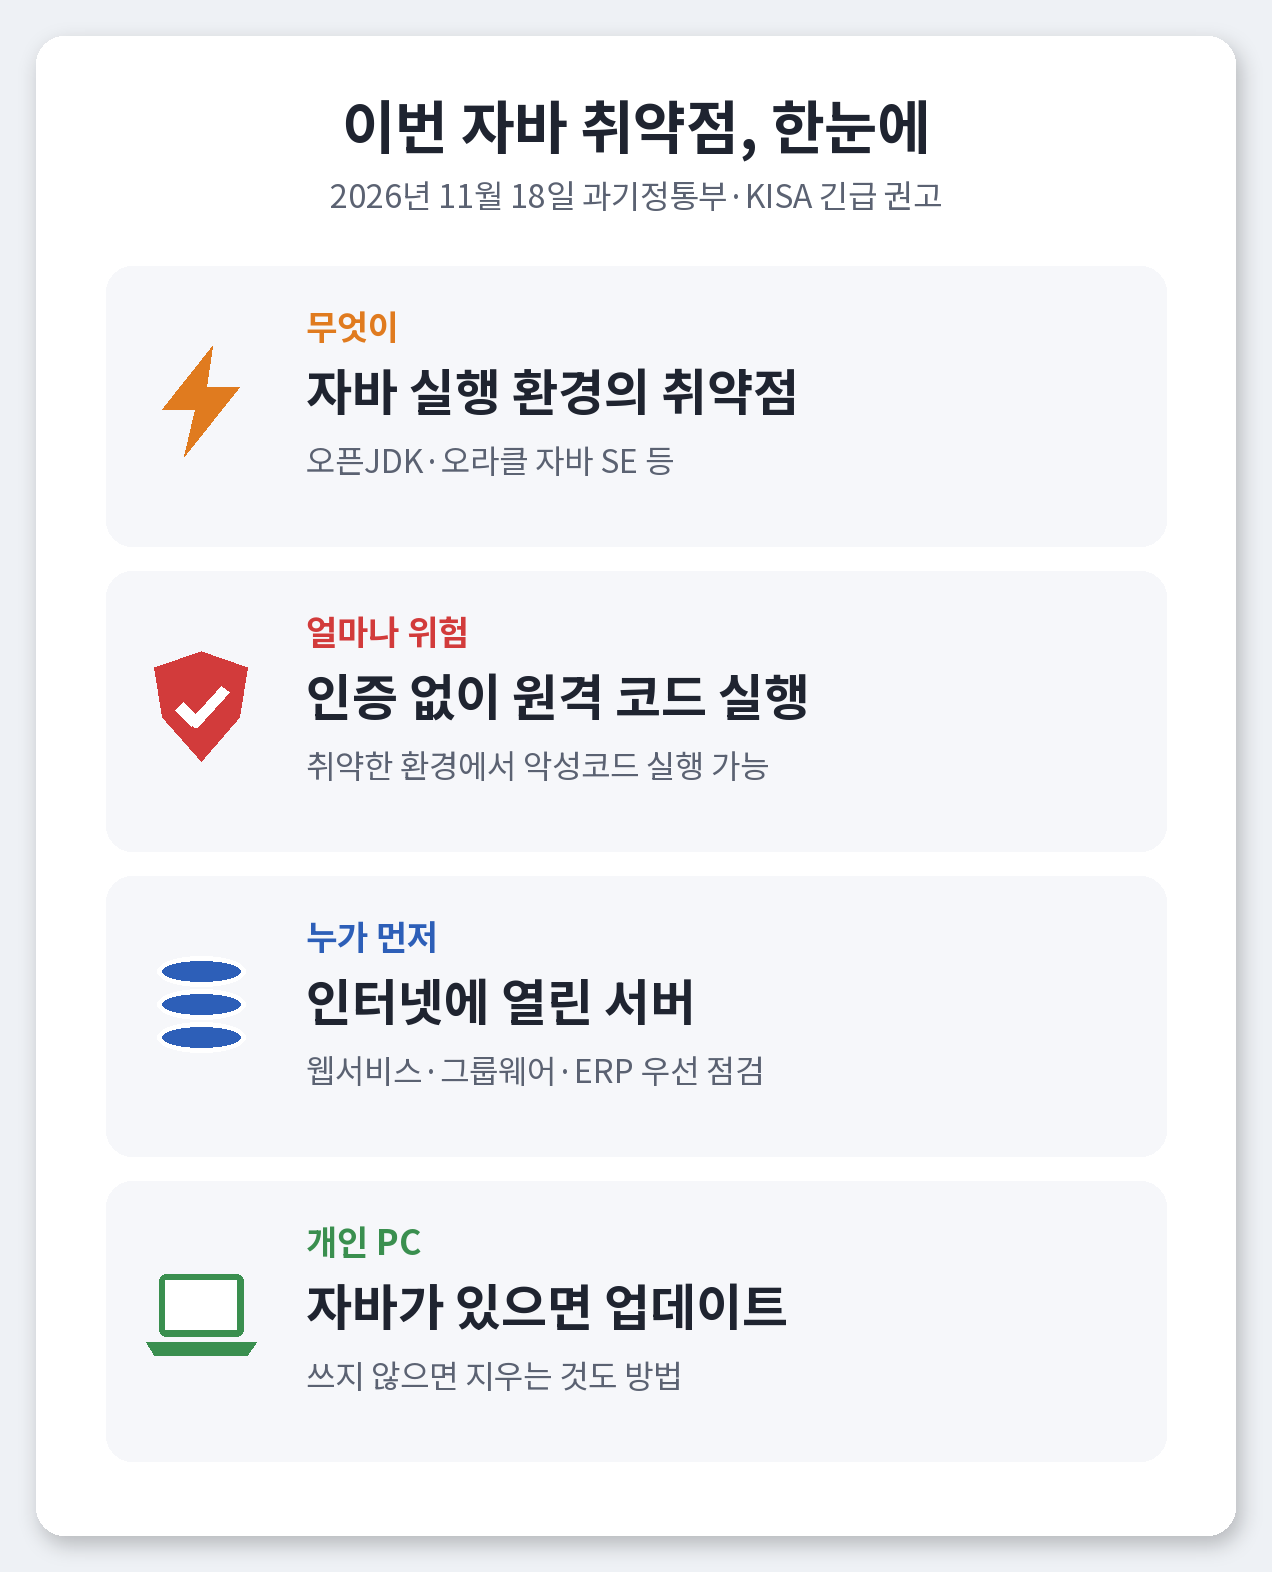
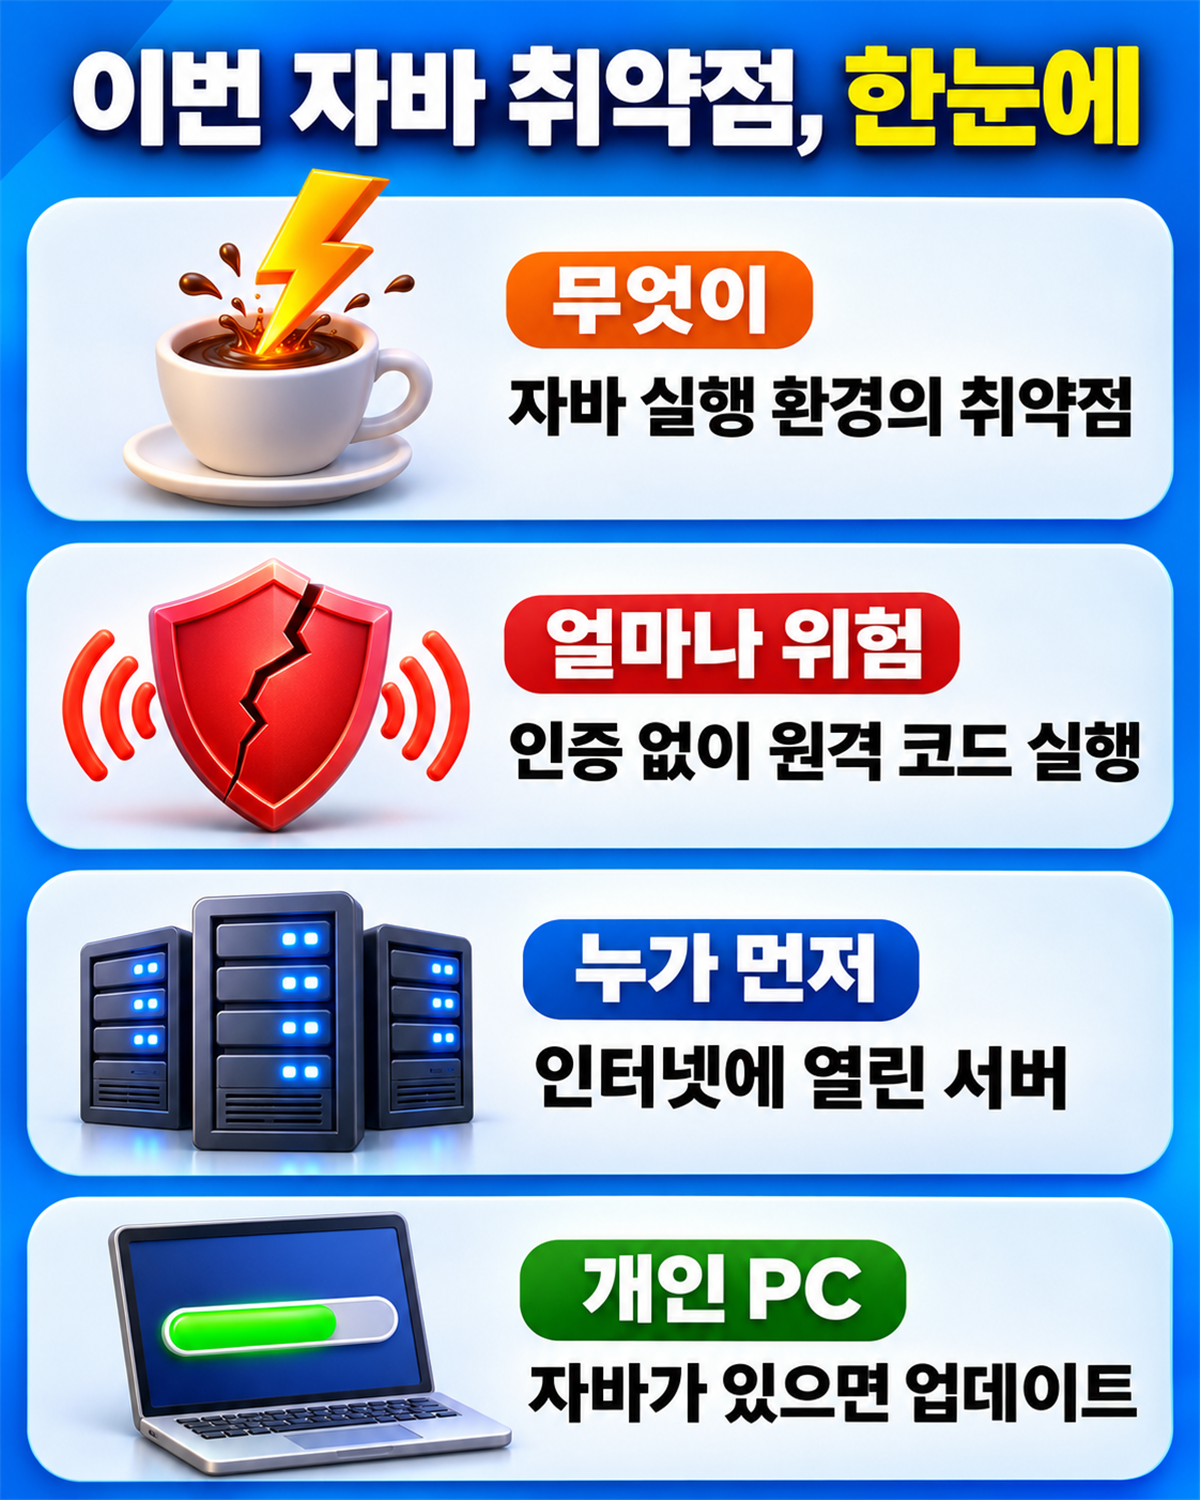
자바 취약점 글: 외부 검수 반영, ChatGPT 이미지 5장 적용(타이틀 85% 축소·사무실 사진 로고 모양 가림), 이미지 8장 완료

diff --git a/문서/네이버-코딩가이드/20261118_자바-취약점-점검/index.html b/문서/네이버-코딩가이드/20261118_자바-취약점-점검/index.html
@@ -4,21 +4,21 @@
 제목: 자바 취약점 '자바포셸' 긴급 점검, 내 컴퓨터도 업데이트해야 할까?
 카테고리: 컴퓨터·IT
 태그: #자바취약점 #자바포셸 #Java4Shell #오픈JDK #자바업데이트 #보안업데이트 #KISA #보호나라 #오라클 #보안공지
-글자 수: 본문 공백 포함 4,427자 / 공백 제외 3,456자 (빨간 글씨 이미지 표시·줄바꿈 제외)
+글자 수: 본문 공백 포함 4,737자 / 공백 제외 3,707자 (빨간 글씨 이미지 표시·줄바꿈 제외, 2026.11.18 검수 반영 후)
 검색어 목표: "자바 취약점" — 제목 맨 앞, 첫 소제목 앞 문단, 마지막 소제목에 넣었다.
 발행 방법: 이 파일을 브라우저로 연 다음 본문을 드래그해 복사 → 네이버 편집기에 붙여넣는다.
           본문의 빨간 글씨 [[ 이미지: 제목 (파일명) ]] 자리에 해당 파일을 올리고, 빨간 글씨는 지운다.
 추천 발행 시기: 2026년 11월 18~19일(정부 긴급 권고 당일·다음 날).
 
 이미지(글 순서와 같음):
-  01-타이틀.png                 ChatGPT 요청 (3D, 1:1, 테두리 없음·가장자리 15% 여백·글자 정가운데) — 이미지요청.md
-  02-한눈에-보기.png            AI 제작 요약 카드 (세로 4:5, 카드, 번개·방패·DB·노트북 아이콘)
-  03-업무-시스템-실사.png       ChatGPT 요청 (실사풍 사무실, 16:9) — 이미지요청.md
+  01-타이틀.png                 ChatGPT 제작 (3D 노트북·주황 경고 방패·커피잔, 1:1, 테두리 없음). 받은 원본은 아랫줄 '내 PC도 업데이트?' 양 끝이 15% 여백 안으로 들어가 85%로 줄이고 바깥을 귀퉁이 색 그라데이션으로 채움(원본: scratchpad/backup/java-01-chatgpt-original.png)
+  02-한눈에-보기.png            ChatGPT 제작 (3D 인포그래픽 네 칸: 번개 커피잔·금 간 방패·서버·노트북, 세로 4:5) — 사용자 요청(2026.11.18)으로 AI 카드에서 바꿈
+  03-업무-시스템-실사.png       ChatGPT 제작 (실사풍 사무실 뒷모습, 16:9). 모니터 테두리의 흐린 로고 모양 두 곳을 옆 색으로 덮음(원본 백업)
   04-공공-시스템-자바-비율.png  AI 제작 막대 차트 (2:1, 왼쪽 주황 띠)
-  05-위험도-점수.png            AI 제작 게이지 두 개 (3:2, 경고 꺾쇠)
+  05-위험도-점수.png            ChatGPT 제작 (3D 계기판 두 개 9.2점·8.1점, 3:2) — 사용자 요청(2026.11.18)으로 AI 게이지에서 바꿈
   06-내-PC-자바-확인.png        AI 제작 3단계 도식 (파노라마 약 3:1, 얇은 선). 2·3단계 터미널 화면 글자는 글쓴이 PC에서 실제 실행한 결과
   07-보안-수정-버전.png         AI 제작 표 (세로 약 4:5, 겹선+문서 아이콘)
-  08-서버-점검-실사.png         ChatGPT 요청 (실사풍 서버실, 4:5) — 이미지요청.md
+  08-서버-점검-실사.png         ChatGPT 제작 (실사풍 서버실·노트북 진행 막대, 4:5, 로고·얼굴 없음)
 
 [이미지 저작권] 무료 이미지(CC0)를 먼저 생각했으나, 쓸 만한 CC0 서버 랙 사진(NERSC)은 같은 날 엔비디아 글 두 편에 이미 써서 반복을 피하려고 이번에는 ChatGPT에 요청했다.
 
@@ -39,6 +39,7 @@
   · https://v.daum.net/v/20261118084224993 — 과기정통부·KISA 18일 권고, 자바는 다른 소프트웨어·장비에 포함돼 쓰이기도 해 프로그램별 버전 확인 필요, 공개 전 정보를 확보해 민·관·군 긴급대책회의
   · https://news.nate.com/view/20261118n05359 — 인증 없이 원격 악성코드 실행, 웹서비스·그룹웨어·ERP 영향
 - 칼리프가 밝힌 9.2점(CVSS 4.0)과 오라클의 8.1점(CVSS 3.1)은 계산 기준이 달라 둘 다 기준을 붙여 썼다. 실제 공격 사례 여부는 공식 공지에 없어 쓰지 않았다. 공격 방법은 쓰지 않았다.
+- [검수 반영 2026.11.18] 모두 타당: 개인 PC '공격 경로가 적은 편' 단정 삭제 → 우선 점검 대상은 외부 입력을 처리하는 서버·서비스, 개인 PC도 설치·내장 자바 확인. 수정 버전 표는 '이 버전 이상' 요약 대신 공식 보안 공지에서 CVE-2026-114938 수정 여부 확인을 앞세우고 '오라클 자바 SE 기준·대략적 기준'을 밝힘(오라클 공지의 영향 버전 8u511·11.0.33.0.3 등 언급). 자바 71%와 PHP 6.6%는 '언어별 사용 비율 단순 비교·위험도 비교 아님'으로 한정, PHP 사건은 '별개의 취약점'으로. 이미지 07 문구도 고침.
 - PHP 취약점: KISA 공지 「PHP 보안취약점(PHP2Shell) 관련 기업 보안 대응 수칙」(2026.10.22) 제목 확인.
 - 글쓴이 PC 확인(2026.11.18 실제 실행, 작업 기록): 명령 프롬프트 `java -version` → "'java'은(는) 내부 또는 외부 명령 … 아닙니다." /
   안드로이드 스튜디오 폴더의 jbr\bin\java.exe -version → openjdk version "25.0.4" 2026-07-21 (JetBrains 배포판). 본문의 '제 컴퓨터' 문단은 이 실행 결과만으로 썼다.
@@ -78,7 +79,7 @@
 
 <p style="color:#e60000;font-weight:bold;">[[ 이미지: 사무실에서 업무 시스템을 쓰는 모습 (03-업무-시스템-실사.png) ]]</p>
 
-<p>얼마나 많이 쓰일까요? 행정안전부 통계를 보면 2025년 말 기준 국내 공공 정보시스템 1만 5,618개 가운데 1만 1,132개, 약 71%가 자바로 개발됐습니다. 중앙행정기관만 보면 89%가 넘습니다. 지난달 비슷한 원격 실행 취약점이 알려진 PHP를 쓰는 공공 시스템이 약 6.6%인 것과 비교하면 열 배가 넘는 규모입니다.</p>
+<p>얼마나 많이 쓰일까요? 행정안전부 통계를 보면 2025년 말 기준 국내 공공 정보시스템 1만 5,618개 가운데 1만 1,132개, 약 71%가 자바로 개발됐습니다. 중앙행정기관만 보면 89%가 넘습니다. 언어별 사용 비율만 단순 비교하면, PHP로 개발된 공공 시스템(약 6.6%)의 열 배가 넘습니다. 이 숫자는 얼마나 많이 쓰이는지를 보여 줄 뿐, 취약점의 위험도나 실제 피해 규모를 비교한 것은 아닙니다.</p>
 
 <p style="color:#e60000;font-weight:bold;">[[ 이미지: 공공 정보시스템의 자바 사용 비율 (04-공공-시스템-자바-비율.png) ]]</p>
 
@@ -113,7 +114,7 @@
 
 <p>오라클 공지를 보면, 자바포셸은 웹 서비스처럼 바깥에서 데이터를 받아 자바로 처리하는 프로그램을 통해 악용될 수 있는 유형으로 설명돼 있습니다. 그래서 정부도 인터넷에 열려 있는 서비스와 그룹웨어, ERP 같은 핵심 업무 시스템부터 점검하라고 했습니다.</p>
 
-<p>개인 컴퓨터는 이런 서버보다 공격받을 경로가 적은 편입니다. 그렇다고 그냥 두기보다는, 내 컴퓨터에 자바가 있는지 한 번 확인하고 있으면 최신 버전으로 올려 두는 것이 기본입니다. 같은 업데이트에는 자바포셸 말고도 다른 취약점 수정이 함께 들어 있기 때문입니다.</p>
+<p>정리하면, 이번 취약점의 우선 점검 대상은 바깥에서 들어오는 데이터를 처리하는 서버와 서비스입니다. 다만 개인 컴퓨터는 상관없다는 뜻은 아닙니다. 개인 PC도 따로 설치한 자바와 프로그램 안에 들어 있는 자바를 확인해, 있으면 최신 버전으로 올려 두는 것이 기본입니다. 같은 업데이트에는 자바포셸 말고도 다른 취약점 수정이 함께 들어 있습니다.</p>
 
 <p>&nbsp;</p>
 <h3 style="font-size:19px;margin:24px 0 10px;">자바가 있는지 확인하는 방법</h3>
@@ -140,7 +141,9 @@
 <li><b>쓰지 않는 자바라면</b>: 설정의 '설치된 앱'에서 지우는 것도 방법입니다. 자바가 필요한 프로그램이 있는지 먼저 확인합니다.</li>
 </ul>
 
-<p>오라클 자바 기준으로 이번 보안 수정이 들어간 버전은 아래와 같습니다. 쓰고 있는 버전의 앞자리(8, 11, 17, 21, 25, 27)를 찾아 그 줄의 버전 이상인지 보면 됩니다.</p>
+<p>가장 정확한 방법은 내가 쓰는 자바를 내놓은 곳(오라클, 각 오픈JDK 배포판, 자바가 들어 있는 프로그램의 제조사)의 공식 보안 공지에서 이번 취약점(CVE-2026-114938)이 고쳐진 버전을 확인하는 것입니다.</p>
+
+<p>참고로 <b>오라클 자바 SE 기준</b> KISA 공지에 실린 수정 버전은 아래와 같습니다. 오라클 공지는 영향을 받는 버전을 8u511, 11.0.33.0.3, 17.0.21.0.3처럼 특정하고 있고, 버전 번호를 붙이는 방식이 줄기마다 다르며, 취약점마다 해당되는 줄기도 조금씩 다릅니다. 그래서 이 표는 대략적인 기준으로만 보고, 정확한 판단은 공식 공지로 하는 것이 좋습니다.</p>
 
 <p style="color:#e60000;font-weight:bold;">[[ 이미지: 오라클 자바 보안 수정 버전 (07-보안-수정-버전.png) ]]</p>
 
@@ -163,7 +166,7 @@
 
 <p style="color:#e60000;font-weight:bold;">[[ 이미지: 서버실에서 시스템을 점검하는 모습 (08-서버-점검-실사.png) ]]</p>
 
-<p>과기정통부와 KISA는 통신·인터넷서비스 사업자, 보안관제·백신, 호스팅, 방산, 조선 업계와 주요정보통신기반시설, 정보보호 관리체계(ISMS) 인증 기업 등에도 대응 방법을 따로 안내했습니다. 지난 10월에는 PHP에서 비슷한 원격 실행 취약점이 알려져 KISA가 기업 보안 대응 수칙을 낸 바 있어, 한 달 사이에 널리 쓰이는 언어 두 곳에서 큰 보안 문제가 이어진 셈입니다.</p>
+<p>과기정통부와 KISA는 통신·인터넷서비스 사업자, 보안관제·백신, 호스팅, 방산, 조선 업계와 주요정보통신기반시설, 정보보호 관리체계(ISMS) 인증 기업 등에도 대응 방법을 따로 안내했습니다. 참고로 지난 10월에는 PHP에서 원격 실행 취약점이 알려져 KISA가 기업 보안 대응 수칙을 냈습니다. 두 사건은 원인과 영향 범위가 서로 다른 별개의 취약점입니다.</p>
 
 <p>&nbsp;</p>
 <hr style="border:none;border-top:1px solid #cfcfcf;margin:8px 0;">

diff --git a/AGENTS.md b/AGENTS.md
@@ -54,6 +54,7 @@
 
 ## 사용자 지시 (유지)
 - **ChatGPT가 작성한 글을 검수해 달라는 요청을 받으면 원문 파일이나 본문을 직접 수정하지 않는다.** 검수 결과만 사용자에게 보고하고, 수정이 필요하면 위치·문제·권장 수정 방향을 알려 준다. 사용자가 별도로 수정해 달라고 요청한 경우에만 직접 수정한다. (사용자 요청, 2026-11-16)
+- **글을 검수할 때 이미지의 내용은 확인해도 되지만, 아직 파일이 없다는 이유만으로 지적하지 않는다.** 이미지 제작이 진행 중일 수 있으므로 파일 존재 여부는 검수 항목에서 제외한다. (사용자 요청, 2026-11-18)
 - 글 분량은 적당하게. 이미지는 다양하게(만화, 실사, 표, 차트, 도식) 사용한다.
 - **글마다 구성·제목 틀·도입·어투·문장 형식을 바꿔서 AI가 쓴 느낌을 줄인다**(2026-11-16). 자세한 기준은 `글작성지침.md`의 "글마다 쓰는 방식을 바꾸기". 쓰기 전에 같은 블로그의 최근 글 2~3편과 겹치는 패턴을 확인한다. 최근 네이버 글들은 "~가 뭐길래/왜 ~일까" 제목, "요즘 ~" 도입, 번호 소제목, 정리 목록 + 체크리스트 이미지로 끝나는 틀이 반복됐다.
 - **가능하면 실사 사진(ChatGPT 실사풍)을 많이 쓴다**(2026-11-16). 같은 종류 이미지가 연달아 나오지 않게 실사와 표·도식을 번갈아 배치한다(`공통지침-블로그.md`: 같은 형식 반복은 지루하다).
@@ -165,6 +166,9 @@
   - 근거: KISA 보호나라 보안공지 「Oracle 제품 보안 업데이트 권고」(11/18, 영향·해결 버전 표, OpenJDK 배포판은 배포판별 수정 버전), 오라클 「Critical Security Patch Update Advisory - November 2026」 원문(Java SE 11건, 전체 655건, CVE-2026-114938 CVSS 3.1 8.1·공격 복잡도 높음, Note 1: 웹 서비스처럼 API에 데이터를 넣는 방식으로 악용 → 서버 우선), 11/18 기사 원문(칼리프 'Java4Shell' CVSS 4.0 9.2, Base64 디코더 메모리 손상, 행안부 통계 공공 정보시스템 71.28%·중앙행정기관 89.05%·PHP 6.58%, 민·관·군 긴급대책회의, 우선 점검·재시작·반영 확인).
   - 도입은 이 PC에서 실제 실행한 결과로 시작했다: 명령 프롬프트 `java -version` → 'java' 명령 없음, 안드로이드 스튜디오 jbr\bin\java.exe -version → openjdk 25.0.4(JetBrains). '명령에선 없다고 나와도 프로그램 안에 자바가 있을 수 있다'를 글의 뼈대로 썼다. 공격 방법은 쓰지 않았고, 두 위험도 점수는 기준(CVSS 4.0/3.1)을 붙여 나란히 썼다.
   - 이미지 8장: AI 02 한눈에(4:5, 카드)·04 공공 시스템 자바 비율(2:1, 왼쪽 띠)·05 위험도 점수 게이지(3:2, 꺾쇠)·06 내 PC 확인 3단계(약 3:1, 얇은 선, 실제 실행 결과 터미널)·07 보안 수정 버전 표(세로, 겹선)는 `images/`에 있다. ChatGPT 요청: 01 타이틀(1:1, 테두리 없음·15% 여백·글자 정가운데, Java 로고 금지)·03 사무실 업무 시스템 실사(16:9)·08 서버실 점검 실사(4:5). CC0 서버 랙 사진은 같은 날 엔비디아 글에 이미 써서 반복을 피했다.
+  - ChatGPT 이미지 3장(01 노트북·주황 경고 방패·커피잔 타이틀 1:1 테두리 없음, 03 사무실 뒷모습 16:9, 08 서버실 노트북 4:5)을 확인해 `images/`로 옮겼다(글자 정확, 얼굴 없음, 타이틀은 150px로 줄여도 읽힘). 01은 아랫줄 양 끝이 15% 여백 안으로 들어가 85%로 줄여 맞췄고, 03은 모니터 테두리의 흐린 로고 모양 두 곳을 옆 색으로 덮었다(원본은 임시 폴더 백업). **실사 이미지는 모니터·노트북 테두리의 작은 로고 모양까지 확대해 확인한다.** 이미지 8장 완료, 대기 중인 요청 없음. 남은 일은 사용자의 네이버 발행뿐이다.
+  - 2026-11-18 사용자 요청으로 02 한눈에 보기·05 위험도 점수를 ChatGPT 3D 인포그래픽으로 다시 요청했다(AI 버전은 임시 폴더 scratchpad/backup/java-02-ai.png·java-05-ai.png). 대기 중인 요청: 02·05. → 받아서 적용함: 02(번개 커피잔·금 간 방패·서버·노트북 네 칸, 4:5)·05(3D 계기판 9.2점·8.1점, 3:2), 글자·숫자 정확, 자바 로고·회사 로고 없음. 이미지 8장 완료, 대기 중인 요청 없음. 남은 일은 사용자의 네이버 발행뿐이다.
+  - 2026-11-18 외부 검수 반영(모두 타당, 공백 포함 4,737자): 개인 PC '공격 경로가 적은 편' 단정 삭제 → 우선 점검은 외부 입력을 처리하는 서버·서비스, 개인 PC도 설치·내장 자바 확인. 수정 버전 표는 '이 버전 이상' 요약 대신 '쓰는 자바를 내놓은 곳의 공식 보안 공지에서 CVE 수정 여부 확인'을 앞세우고 '오라클 자바 SE 기준·대략적 기준'으로 밝힘(이미지 07 머리말·주석도 고침). 자바 71%·PHP 6.6%는 '언어별 사용 비율 단순 비교, 위험도 비교 아님', PHP 사건은 '별개의 취약점'으로. **보안 취약점 글 기준**: '개인 PC는 덜 위험' 같은 범위 판단은 공식 설명(우선 점검 대상)으로만 쓰고 안전하다고 읽히지 않게 한다. 버전 표는 배포처마다 번호 체계가 다르니 '공식 공지로 확인'을 먼저 쓰고 표는 참고로 둔다. 사용 비율 같은 숫자로 두 취약점의 위험도를 비교하지 않는다.
 - 2026-11-18: 이코노미 가이드 아홉 번째 글 `문서/티스토리-이코노미가이드/20261118_엔비디아-지난분기-비교/index.html` 작성("엔비디아 실적, 석 달 전보다 얼마나 좋아졌을까? 지난 분기 숫자와 나란히 놓고 비교해 봤습니다", 분류 주식 | 환율, 공백 포함 4,611자). 사용자가 '사람들이 실제로 궁금한 것'을 물은 뒤 "지난 분기 자료를 가져와 함께 비교"를 제안해 쓴 글. 같은 날 네이버 엔비디아 글 두 편과 숫자가 겹치지만 '전 분기 대비'가 중심이다. 11/18~20 발행, 11/16 「실적과 주가」 글과 링크.
   - 근거: 엔비디아 공식 보도자료 1·2·3분기(FY27) 원문. 매출 816→962→1,158억(+146억·+196억, +18%·+20%), 데이터센터 890→1,076억(늘어난 196억 중 186억), 조정 순이익 540→649억(+20%)·GAAP 597→653억(+9%, 기준 차이 본문에 밝힘), 조정 EPS 2.22→2.68, 매출총이익률 75.0→74.9%, GAAP 영업비용 84→92억·영업이익 637→775억. 회사 전망 대비: 2분기 910억±2% → 962억, 3분기 1,080억±2% → 1,158억(두 분기 연속 범위 위쪽 끝을 넘음). 4분기 전망 1,300억±3%(+142억, +12%, 한 주 추가·중국 제외), 이익률 71~72%.
   - 주가 반응: 2분기는 예상(LSEG 921.7억·EPS 2.10)을 웃돌았는데 시간외 -1.27%(발표 직후 보도), 3분기는 시간외 2~3% 상승. 원인은 단정하지 않고 '발표 전 분위기 차이(3년 상승 뒤 vs 고점 대비 35% 하락)'라는 해석으로만 썼다. 다음 날 정규장 결과는 확인하지 못해 쓰지 않았다.

diff --git a/이미지요청.md b/이미지요청.md
@@ -7,24 +7,4 @@
 - **타이틀(01)은 블로그 목록의 작은 썸네일에서도 읽혀야 합니다.** 작은 글씨(띠·라벨·부제 설명)는 넣지 말고, 넣는다면 크게 넣어 주세요. 제목 글자는 아주 크게(가장 큰 줄은 이미지 높이의 약 15% 이상), 2줄 안팎으로.
 - 제목 글자와 주요 사물은 가운데 쪽에 두고, 가장자리는 배경만 이어지되 가운데가 너무 비지 않게 채워 주세요.
 
-## 네이버 — 자바 취약점 긴급 점검 (문서/네이버-코딩가이드/20261118_자바-취약점-점검)
-
-### 01-타이틀.png
-- 종류: 3D 일러스트 타이틀, **1:1 정사각형 1080×1080**
-- 장면: 진한 남색~보라 그라데이션 배경. 가운데 아래쪽에 노트북 한 대와 그 위로 떠 있는 주황색 경고 방패(느낌표), 노트북 화면에는 '업데이트 진행 막대'만(글자 없음). 김이 나는 커피잔 아이콘처럼 '자바'를 떠올리게 하는 작은 커피잔 하나를 옆에 둔다(실제 Java 로고는 그리지 않기).
-- 넣을 글자(정확히 이대로, 다른 글자는 넣지 않기):
-  - 1줄: **자바 취약점**
-  - 2줄: **내 PC도 업데이트?**
-- 글자는 흰색 아주 굵게(2줄은 노란색 강조 가능), 정가운데. 가장 큰 줄은 이미지 높이의 약 15% 이상. 목록 썸네일(폭 약 150px)에서도 읽히게.
-- 네 변 바깥 약 15% 안에는 글자·중요한 그림을 두지 말 것(배경만). 테두리·액자 없음.
-- Java·오라클 로고, 실제 회사 로고·상표, 사람 얼굴 넣지 않기.
-
-### 03-업무-시스템-실사.png
-- 종류: 실사풍 사진, **가로 16:9 (1920×1080)**
-- 장면: 낮의 밝은 사무실. 직원 두세 명이 각자 모니터 앞에서 업무 프로그램(표·결재 목록 같은 화면)을 보고 있는 모습을 뒤쪽 비스듬한 각도에서. 화면 글자는 흐리게 해서 읽히지 않게.
-- 로고·회사 이름·상표 없음, 얼굴은 보이지 않게(뒷모습·옆모습 흐리게).
-
-### 08-서버-점검-실사.png
-- 종류: 실사풍 사진, **세로 4:5 (1080×1350)**
-- 장면: 서버실 랙 사이 통로에서 담당자가 노트북을 들고 서버 상태를 확인하는 모습. 파란·초록 표시등이 켜진 서버 랙, 노트북 화면에는 업데이트 진행 막대(글자 없음). 사람은 뒷모습이나 손·상반신 일부만.
-- 서버·노트북 제조사 로고, 읽히는 글자, 얼굴 없음.
+(현재 요청 없음)
